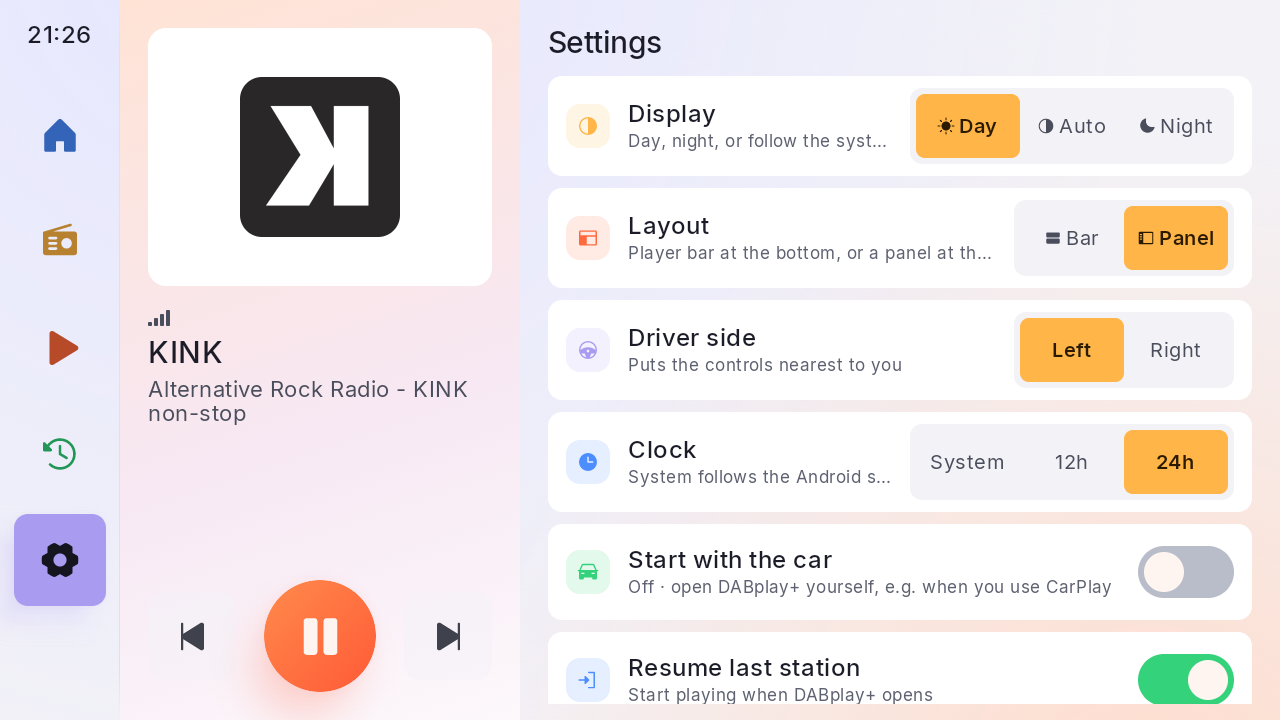
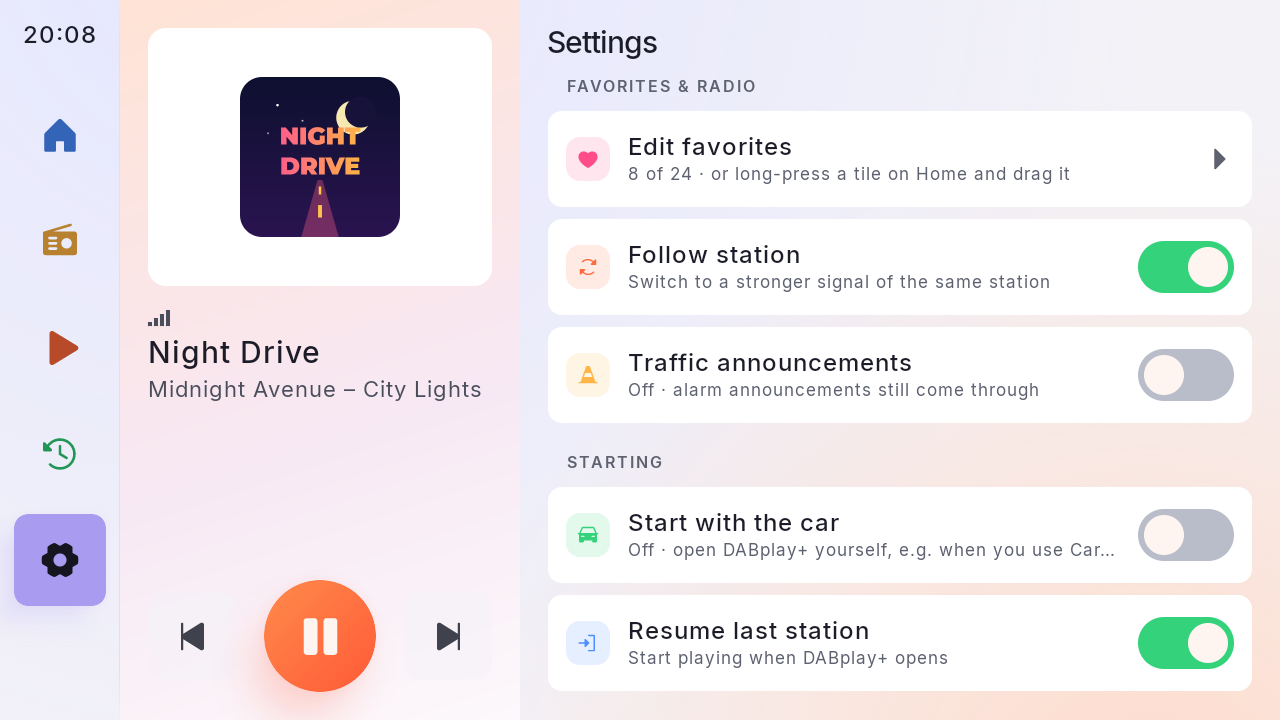
Settings: grouped under headings, version at the bottom
Look, Favorites & radio, Starting, Station logos, Help (owner: Look first, Diagnostics last), then the version and the
project's address. The README/website screenshot is retaken with the demo stations.

diff --git a/android/app/src/main/kotlin/io/github/jvspier/dabplay/ui/screens/SettingsScreen.kt b/android/app/src/main/kotlin/io/github/jvspier/dabplay/ui/screens/SettingsScreen.kt
@@ -123,6 +123,7 @@ private fun SettingsList(s: Settings, db: Snapshot, a: RadioActions, compact: Bo
     Column(Modifier.fillMaxSize()) {
         ScreenTitle("Settings", compact)
         Column(Modifier.weight(1f).verticalScroll(rememberScrollState()).padding(bottom = 12.dp), verticalArrangement = Arrangement.spacedBy(12.dp)) {
+            Section("Look", first = true)
             SettingRow(PhosphorIcons.Fill.CircleHalf, Accent.amber, tile, "Display", "Day, night, or follow the system") {
                 Segmented(listOf(DisplayMode.DAY to "Day", DisplayMode.AUTO to "Auto", DisplayMode.NIGHT to "Night"), s.display, Accent.amber, ON_AMBER,
                     { v -> a.updateSettings { it.copy(display = v) } }, optionWidth = segW,
@@ -155,6 +156,18 @@ private fun SettingsList(s: Settings, db: Snapshot, a: RadioActions, compact: Bo
                 Segmented(listOf(ClockFormat.SYSTEM to "System", ClockFormat.H12 to "12h", ClockFormat.H24 to "24h"), s.clock, Accent.amber, ON_AMBER,
                     { v -> a.updateSettings { it.copy(clock = v) } }, optionWidth = segW)
             }
+            Section("Favorites & radio")
+            SettingRow(PhosphorIcons.Fill.Heart, Accent.pink, tile, "Edit favorites", "${db.favourites.size} of ${StationStore.MAX_FAVOURITES} · or long-press a tile on Home and drag it", onClick = onEditFavourites) {
+                Icon(PhosphorIcons.Fill.CaretRight, null, tint = LocalDabColors.current.neutral400, modifier = Modifier.size(30.dp))
+            }
+            SettingRow(PhosphorIcons.Fill.ArrowsClockwise, Accent.orange, tile, "Follow station", "Switch to a stronger signal of the same station") {
+                DabSwitch(s.followStation) { v -> a.updateSettings { it.copy(followStation = v) } }
+            }
+            SettingRow(PhosphorIcons.Fill.TrafficCone, Accent.amber, tile, "Traffic announcements",
+                if (s.trafficAnnouncements) "On · switches to traffic news on the same multiplex" else "Off · alarm announcements still come through") {
+                DabSwitch(s.trafficAnnouncements) { v -> a.updateSettings { it.copy(trafficAnnouncements = v) } }
+            }
+            Section("Starting")
             // Android 10+ only lets an app open itself at start-up with "Display over other apps" allowed
             val ctx = LocalContext.current
             var canOpenItself by remember { mutableStateOf(canDrawOverlays(ctx)) }
@@ -172,6 +185,7 @@ private fun SettingsList(s: Settings, db: Snapshot, a: RadioActions, compact: Bo
             SettingRow(PhosphorIcons.Fill.SignIn, Accent.blue, tile, "Resume last station", "Start playing when DABplay+ opens") {
                 DabSwitch(s.resumeOnStart) { v -> a.updateSettings { it.copy(resumeOnStart = v) } }
             }
+            Section("Station logos")
             SettingRow(PhosphorIcons.Fill.DownloadSimple, Accent.green, tile, "Download station logos",
                 when {
                     !s.downloadLogos -> "Off · stations show their initials"
@@ -190,13 +204,7 @@ private fun SettingsList(s: Settings, db: Snapshot, a: RadioActions, compact: Bo
                     }
                 }
             }
-            SettingRow(PhosphorIcons.Fill.ArrowsClockwise, Accent.orange, tile, "Follow station", "Switch to a stronger signal of the same station") {
-                DabSwitch(s.followStation) { v -> a.updateSettings { it.copy(followStation = v) } }
-            }
-            SettingRow(PhosphorIcons.Fill.TrafficCone, Accent.amber, tile, "Traffic announcements",
-                if (s.trafficAnnouncements) "On · switches to traffic news on the same multiplex" else "Off · alarm announcements still come through") {
-                DabSwitch(s.trafficAnnouncements) { v -> a.updateSettings { it.copy(trafficAnnouncements = v) } }
-            }
+            Section("Help")
             val save = rememberLauncherForActivityResult(ActivityResultContracts.CreateDocument("text/plain")) { uri -> uri?.let(a.saveDiagnostics) }
             SettingRow(PhosphorIcons.Fill.Lifebuoy, Accent.blue, tile, "Diagnostics log", "For a problem report: app and dongle events, no song titles",
                 subtitleLines = 2) {
@@ -205,9 +213,7 @@ private fun SettingsList(s: Settings, db: Snapshot, a: RadioActions, compact: Bo
                     ActionButton("Share", true, a.shareDiagnostics)
                 }
             }
-            SettingRow(PhosphorIcons.Fill.Heart, Accent.pink, tile, "Edit favorites", "${db.favourites.size} of ${StationStore.MAX_FAVOURITES} · or long-press a tile on Home and drag it", onClick = onEditFavourites) {
-                Icon(PhosphorIcons.Fill.CaretRight, null, tint = LocalDabColors.current.neutral400, modifier = Modifier.size(30.dp))
-            }
+            VersionLine()
         }
     }
 }
@@ -281,6 +287,25 @@ private fun SettingRow(icon: ImageVector, color: Color, tile: Dp, title: String,
             Text(subtitle, color = c.neutral400, fontSize = 17.sp, maxLines = subtitleLines, overflow = TextOverflow.Ellipsis)
         }
         control()
+    }
+}
+
+/** A group heading in the settings list (owner, 2026-10-26: Look first, Help last). */
+@Composable
+private fun Section(title: String, first: Boolean = false) {
+    Text(title.uppercase(), color = LocalDabColors.current.neutral400, fontSize = 16.sp, fontWeight = FontWeight.SemiBold,
+        letterSpacing = 1.5.sp, modifier = Modifier.padding(start = 18.dp, top = if (first) 0.dp else 16.dp))
+}
+
+/** The bottom of the list: which version this is, for a problem report. */
+@Composable
+private fun VersionLine() {
+    val ctx = LocalContext.current
+    val version = remember { runCatching { ctx.packageManager.getPackageInfo(ctx.packageName, 0).versionName }.getOrNull() }
+    val c = LocalDabColors.current
+    Column(Modifier.fillMaxWidth().padding(top = 16.dp), horizontalAlignment = Alignment.CenterHorizontally) {
+        Text("DABplay+ ${version.orEmpty()}".trim(), color = c.neutral400, fontSize = 17.sp, fontWeight = FontWeight.Medium)
+        Text("github.com/jvspier/dabplayplus", color = c.neutral500, fontSize = 15.sp)
     }
 }
 
